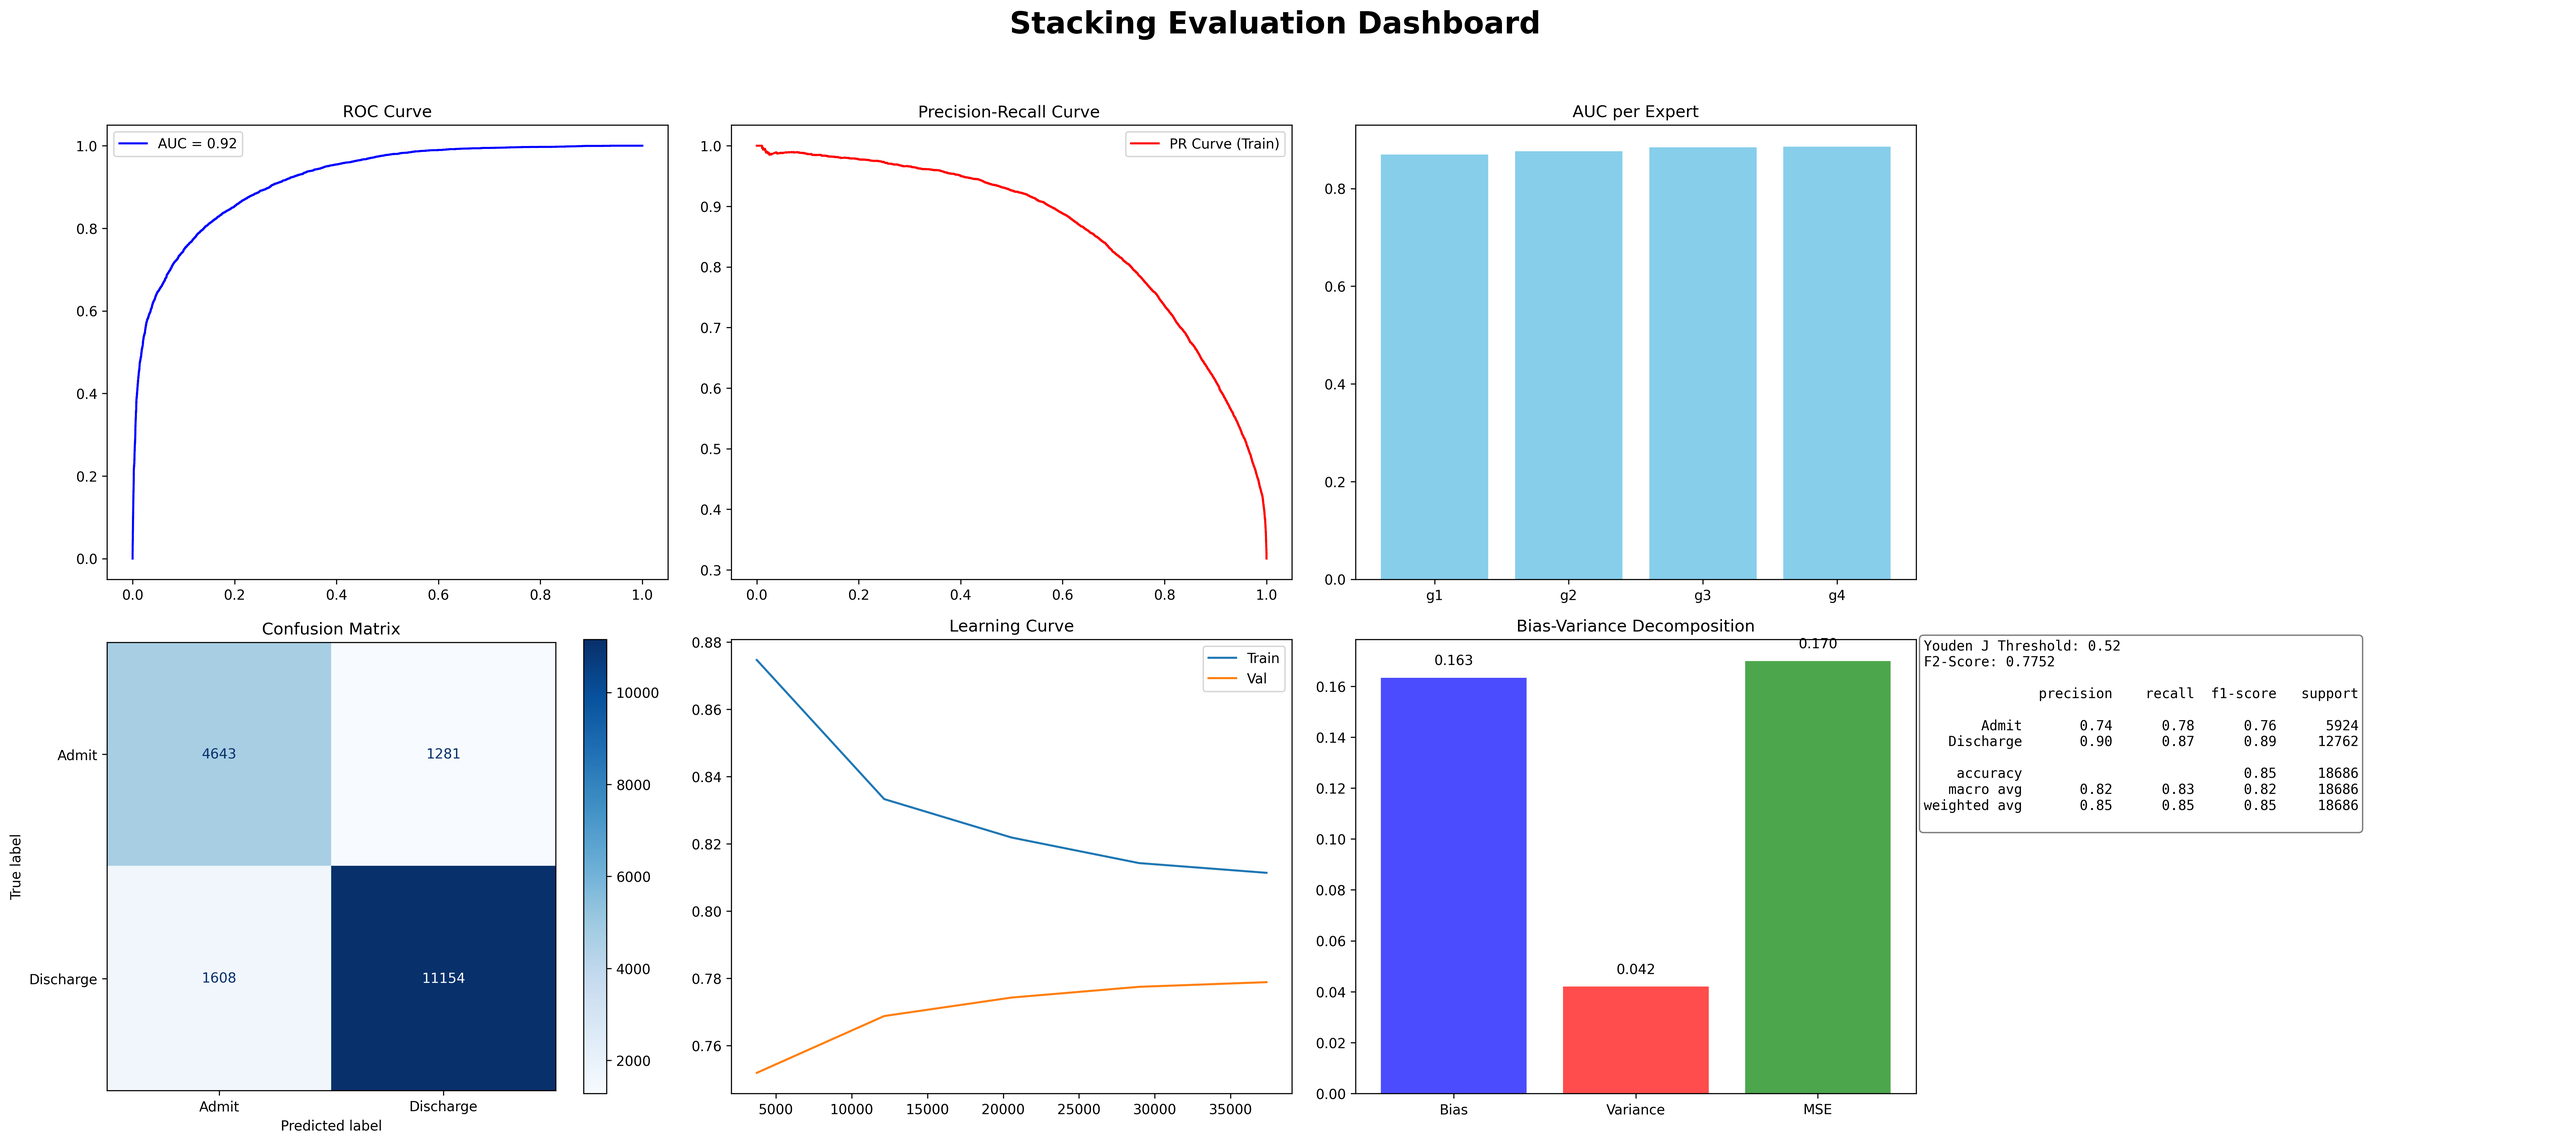
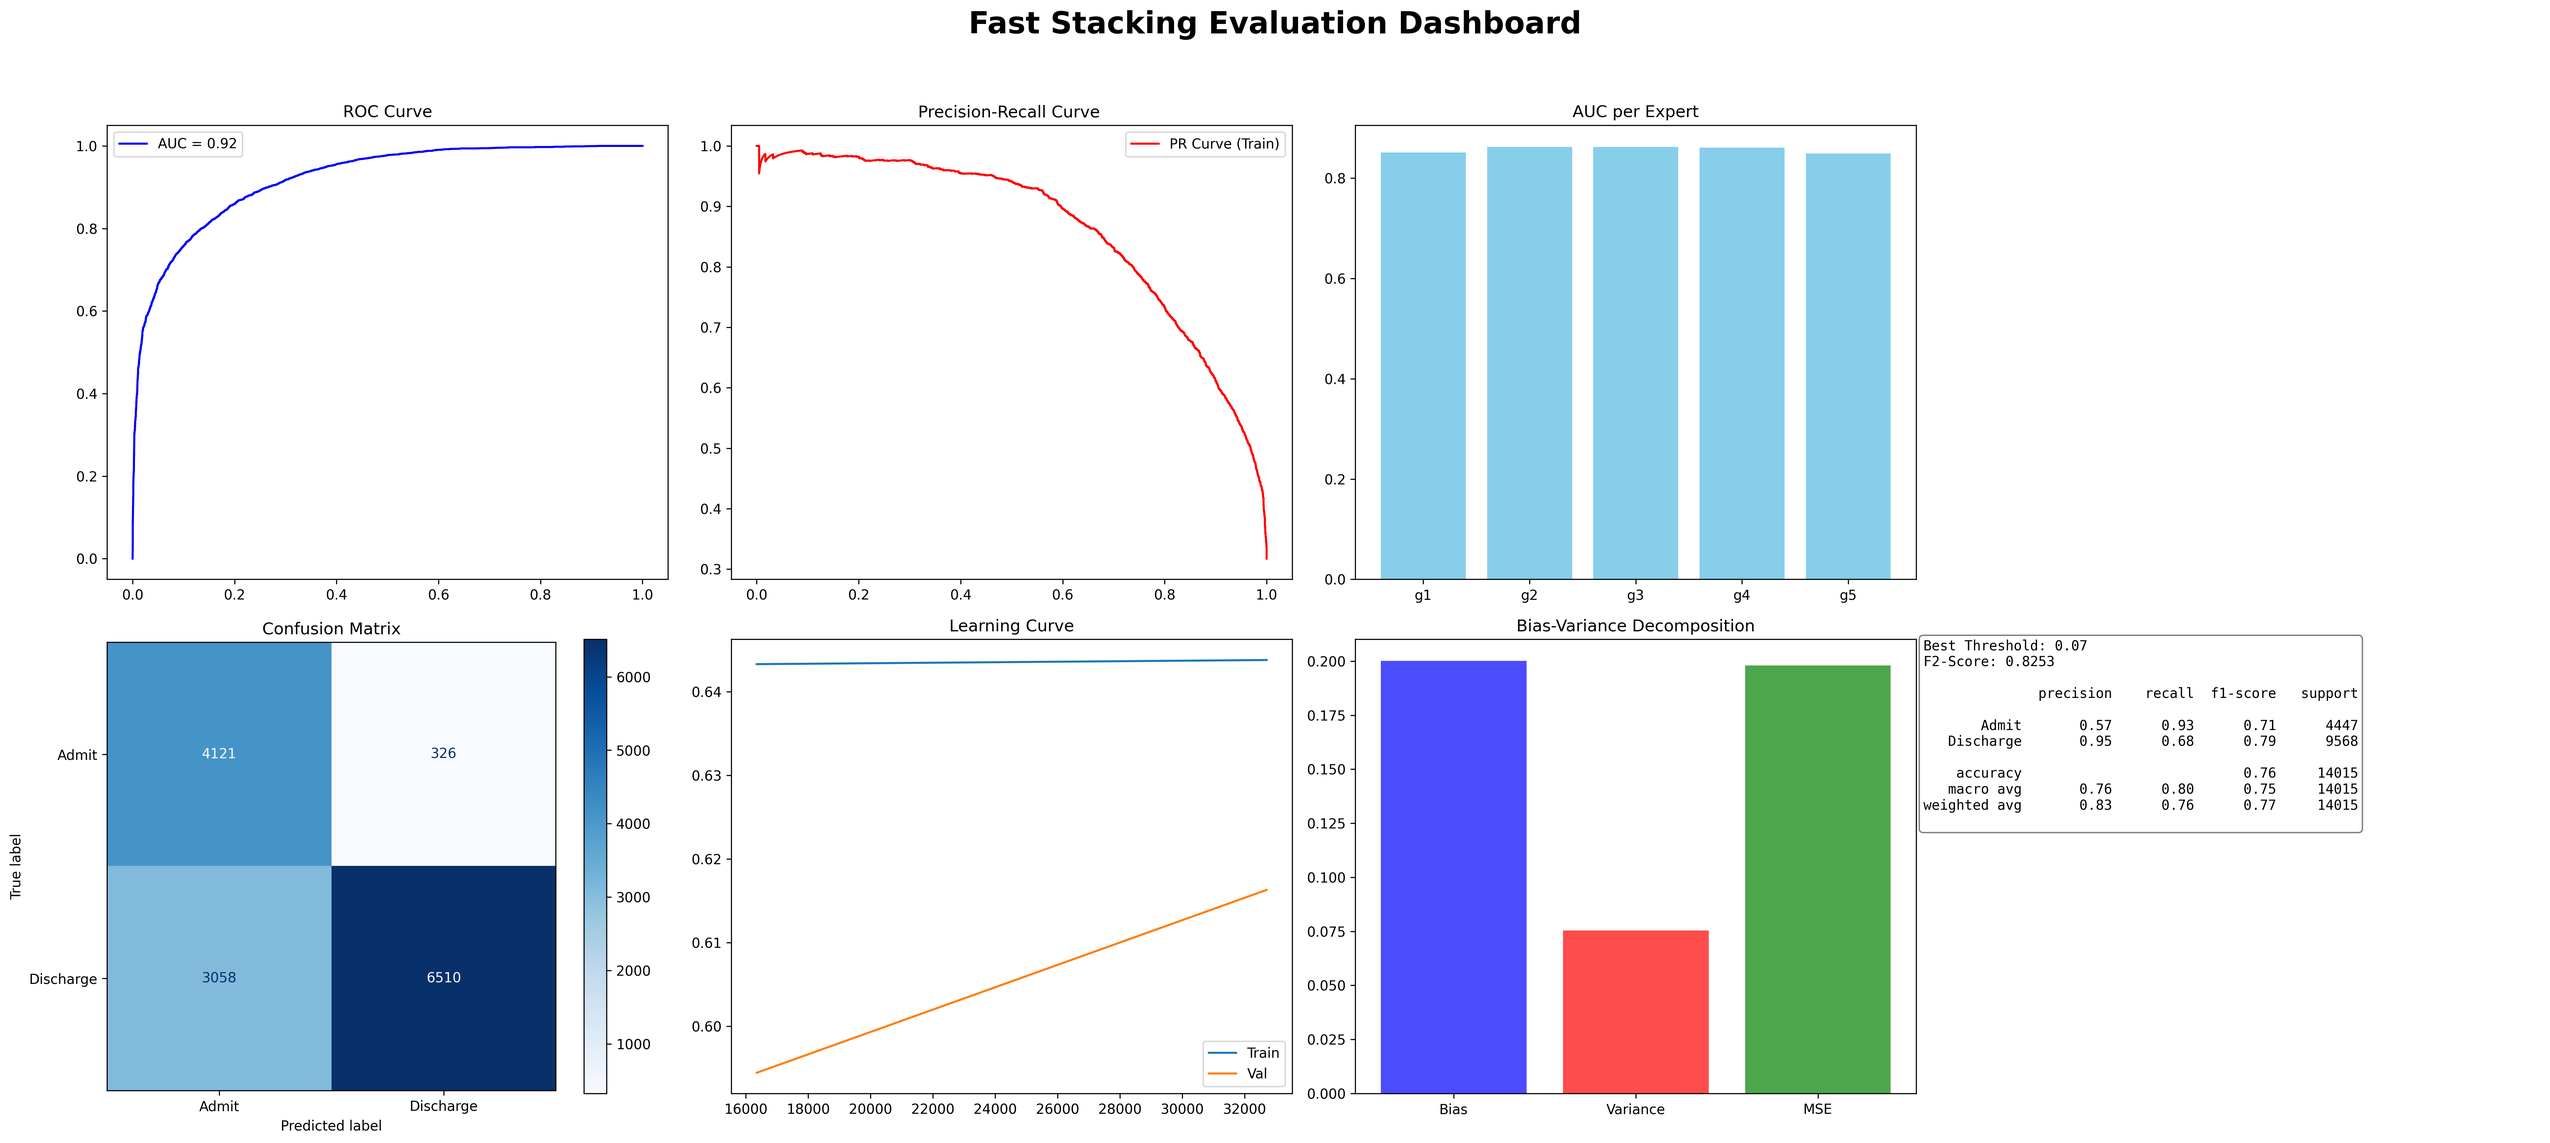
Refactor Stacking Classifier logic

diff --git a/scripts/triage_stacking.py b/scripts/triage_stacking.py
@@ -5,58 +5,66 @@ import re
 import random
 import lightgbm as lgb
 import joblib
-from sklearn.preprocessing import LabelEncoder
-from sklearn.model_selection import train_test_split, learning_curve, cross_val_predict
+import optuna
+from sklearn.preprocessing import LabelEncoder, OneHotEncoder
+from sklearn.model_selection import train_test_split, learning_curve, cross_val_predict, cross_val_score
 from sklearn.compose import ColumnTransformer
 from sklearn.pipeline import Pipeline
+from sklearn.impute import SimpleImputer
 from sklearn.linear_model import LogisticRegression
 from sklearn.ensemble import RandomForestClassifier, StackingClassifier
 from sklearn.metrics import (roc_curve, auc, precision_recall_curve, fbeta_score, 
                              classification_report, confusion_matrix, roc_auc_score, 
-                             make_scorer, ConfusionMatrixDisplay)
+                             make_scorer, ConfusionMatrixDisplay, precision_score)
 from catboost import CatBoostClassifier
+from xgboost import XGBClassifier
 from mlxtend.evaluate import bias_variance_decomp
 
 # 1. Load data and initialize target encoding
-df = pd.read_csv('data/subset.csv')
+df = pd.read_csv('data/subset.csv')  
 X = df.drop('disposition', axis=1)
 y = df['disposition']
 
 # 2. Split data with stratification
-X_train, X_test, y_train_raw, y_test_raw = train_test_split(X, y, test_size=0.2, random_state=42)
+X_train, X_temp, y_train_raw, y_temp = train_test_split(X, y, test_size=0.30, random_state=42)
+X_val_raw, X_test_raw, y_val_raw, y_test_raw = train_test_split(X_temp, y_temp, test_size=0.50, random_state=42)
 
 label_enc = LabelEncoder()
 y_train = label_enc.fit_transform(y_train_raw)
+y_val = label_enc.transform(y_val_raw)
 y_test = label_enc.transform(y_test_raw)
 
-X_train, X_test = X_train.copy(), X_test.copy()
+X_train_raw, X_test_raw = X_train.copy(), X_test_raw.copy()
 
 # 3. Handle missing values
-num_cols = X_train.select_dtypes(include=['int64', 'float64']).columns
-cat_cols = X_train.select_dtypes(include=['object', 'category']).columns
-
-train_median = X_train[num_cols].median()
-X_train[num_cols] = X_train[num_cols].fillna(train_median)
-X_test[num_cols] = X_test[num_cols].fillna(train_median)
-X_train[cat_cols] = X_train[cat_cols].fillna('Missing')
-X_test[cat_cols] = X_test[cat_cols].fillna('Missing')
-
 # 4. One-Hot Encoding and column name cleaning
-X_train_dum = pd.get_dummies(X_train)
-X_test_dum = pd.get_dummies(X_test)
-X_train_dum, X_test_dum = X_train_dum.align(X_test_dum, join='left', axis=1, fill_value=0)
+num_cols = X_train_raw.select_dtypes(include=['int64', 'float64']).columns.tolist()
+cat_cols = X_train_raw.select_dtypes(include=['object', 'category']).columns.tolist()
+
+preprocessor = ColumnTransformer(
+    transformers=[
+        ('num', SimpleImputer(strategy='median'), num_cols),
+        ('cat', Pipeline(steps=[
+            ('imputer', SimpleImputer(strategy='constant', fill_value='Missing')),
+            ('onehot', OneHotEncoder(handle_unknown='ignore', sparse_output=False))
+        ]), cat_cols)
+    ], remainder='passthrough')
+
+X_train_processed = preprocessor.fit_transform(X_train_raw)
+X_test_processed = preprocessor.transform(X_test_raw)
+
+cols = preprocessor.get_feature_names_out()
+cols = [re.sub(r'[\[\]<>,:{}\"]', '_', c) for c in cols]
+
+X_train_dum = pd.DataFrame(X_train_processed, columns=cols, index=X_train_raw.index)
+X_test_dum = pd.DataFrame(X_test_processed, columns=cols, index=X_test_raw.index)
 
 bool_cols = X_train_dum.select_dtypes(include=['uint8', 'bool']).columns
 X_train_dum[bool_cols] = X_train_dum[bool_cols].astype('int8')
 X_test_dum[bool_cols] = X_test_dum[bool_cols].astype('int8')
 
-X_train_dum.columns = X_train_dum.columns.str.replace(r'[\[\]<>,:{}\"]', '_', regex=True)
-X_test_dum.columns = X_test_dum.columns.str.replace(r'[\[\]<>,:{}\"]', '_', regex=True)
-
 # 5. Feature Selection
-X_fs, X_train_cv, y_fs, y_train_cv = train_test_split(
-    X_train_dum, y_train, test_size=0.8, random_state=42, stratify=y_train
-)
+X_fs, _, y_fs, _ = train_test_split(X_train_dum, y_train, test_size=0.8, random_state=42, stratify=y_train)
 lgb_selector = lgb.LGBMClassifier(n_estimators=100, importance_type='gain', n_jobs=-1, random_state=42)
 lgb_selector.fit(X_fs, y_fs)
 top_100_features = pd.Series(lgb_selector.feature_importances_, index=X_train_dum.columns).nlargest(100).index.tolist()
@@ -68,7 +76,7 @@ random.seed(22669234)
 top_5_anchors = top_100_features[:5]
 remaining_95 = [f for f in top_100_features if f not in top_5_anchors]
 random.shuffle(remaining_95)
-b1, b2, b3, b4 = remaining_95[0:24], remaining_95[24:48], remaining_95[48:72], remaining_95[72:95]
+b1, b2, b3, b4, b5 = remaining_95[0:19], remaining_95[19:38], remaining_95[38:57], remaining_95[57:76], remaining_95[76:95]
 
 def build_group(base, pool, target_size=55):
     needed = target_size - len(base)
@@ -76,61 +84,115 @@ def build_group(base, pool, target_size=55):
     extra = random.sample(pool_filtered, min(needed, len(pool_filtered)))
     return base + extra
 
-g1, g2, g3, g4 = [top_5_anchors + build_group(b, remaining_95) for b in [b1, b2, b3, b4]]
+g1, g2, g3, g4, g5 = [top_5_anchors + build_group(b, remaining_95) for b in [b1, b2, b3, b4, b5]]
 
 def get_indices(df, col_list):
     return [df.columns.get_loc(c) for c in col_list]
 
-idx1, idx2, idx3, idx4 = [get_indices(X_train_sel, g) for g in [g1, g2, g3, g4]]
+idx1, idx2, idx3, idx4, idx5 = [get_indices(X_train_sel, g) for g in [g1, g2, g3, g4, g5]]
 
 # 7. Model Stacking
-ratio = np.bincount(y_train)[1] / np.bincount(y_train)[0]
+class_ratio = ((y_train == 1).sum() / (y_train == 0).sum()) * 1.2
+
+X_proxy, _, y_proxy, _ = train_test_split(X_train_sel.values, y_train, test_size=0.8, random_state=42, stratify=y_train)
+
+def objective(trial):
+    lgb_lr   = trial.suggest_float('lgb_lr', 0.01, 0.1, log=True)
+    cat_lr   = trial.suggest_float('cat_lr', 0.01, 0.1, log=True)
+    xgb_lr   = trial.suggest_float('xgb_lr', 0.01, 0.1, log=True)
+    meta_lr  = trial.suggest_float('meta_lr', 0.01, 0.1, log=True)
+
+    bases = [
+        ('sub1_lgbm', Pipeline([('sel', ColumnTransformer([('k', 'passthrough', idx1)], remainder='drop')),
+                                 ('clf', lgb.LGBMClassifier(n_estimators=150, learning_rate=lgb_lr, scale_pos_weight=class_ratio, random_state=42, n_jobs=1))])),
+        ('sub2_rf',   Pipeline([('sel', ColumnTransformer([('k', 'passthrough', idx2)], remainder='drop')),
+                                 ('clf', RandomForestClassifier(n_estimators=100, max_depth=6, bootstrap=False, class_weight='balanced', random_state=42, n_jobs=1))])),
+        ('sub3_cat',  Pipeline([('sel', ColumnTransformer([('k', 'passthrough', idx3)], remainder='drop')),
+                                 ('clf', CatBoostClassifier(iterations=200, learning_rate=cat_lr, depth=5, auto_class_weights='Balanced', verbose=0, thread_count=1))])),
+        ('sub4_cat_alt', Pipeline([('sel', ColumnTransformer([('k', 'passthrough', idx4)], remainder='drop')),
+                                    ('clf', CatBoostClassifier(iterations=200, learning_rate=cat_lr, depth=5, auto_class_weights='Balanced', verbose=0, thread_count=1))])),
+        ('sub5_xgb',  Pipeline([('sel', ColumnTransformer([('k', 'passthrough', idx5)], remainder='drop')),
+                                 ('clf', XGBClassifier(n_estimators=150, learning_rate=xgb_lr, scale_pos_weight=class_ratio, eval_metric='logloss', random_state=42, n_jobs=1, verbosity=0))]))
+    ]
+    meta = lgb.LGBMClassifier(n_estimators=100, learning_rate=meta_lr, scale_pos_weight=class_ratio, random_state=42, n_jobs=-1, verbosity=-1)
+    stack = StackingClassifier(estimators=bases, final_estimator=meta, cv=2, stack_method='predict_proba', n_jobs=-1)
+
+    X_tr_opt, X_val_opt, y_tr_opt, y_val_opt = train_test_split(X_proxy, y_proxy, test_size=0.2, stratify=y_proxy, random_state=42)
+    stack.fit(X_tr_opt, y_tr_opt)
+    y_prob_opt = stack.predict_proba(X_val_opt)[:, 0]
+    prec_o, rec_o, thresh_o = precision_recall_curve(y_val_opt, y_prob_opt, pos_label=0)
+    f2_o = (5 * prec_o[:-1] * rec_o[:-1]) / (4 * prec_o[:-1] + rec_o[:-1] + 1e-9)
+    t_o = thresh_o[np.argmax(f2_o)]
+    y_pred_o = np.where(y_prob_opt > t_o, 0, 1)
+    return fbeta_score(y_val_opt, y_pred_o, beta=2, pos_label=0)
+
+optuna.logging.set_verbosity(optuna.logging.WARNING)
+study = optuna.create_study(direction='maximize', sampler=optuna.samplers.TPESampler(seed=42))
+study.optimize(objective, n_trials=10) 
+
+bp = study.best_params
+
 base_learners = [
-    ('sub1_lgbm', Pipeline([('sel', ColumnTransformer([('k', 'passthrough', idx1)], remainder='drop')), 
-                             ('clf', lgb.LGBMClassifier(n_estimators=100, scale_pos_weight=ratio, random_state=42, n_jobs=-1))])),
-    ('sub2_rf', Pipeline([('sel', ColumnTransformer([('k', 'passthrough', idx2)], remainder='drop')), 
-                            ('clf', RandomForestClassifier(n_estimators=100, class_weight='balanced', max_depth=5, min_samples_leaf=50, random_state=42, n_jobs=-1))])),
-    ('sub3_cat', Pipeline([('sel', ColumnTransformer([('k', 'passthrough', idx3)], remainder='drop')), 
-                             ('clf', CatBoostClassifier(iterations=200, verbose=0, auto_class_weights='Balanced', depth=4, thread_count=-1))])),
-    ('sub4_cat_alt', Pipeline([('sel', ColumnTransformer([('k', 'passthrough', idx4)], remainder='drop')), 
-                                 ('clf', CatBoostClassifier(iterations=200, verbose=0, depth=5, thread_count=-1))]))
+    ('sub1_lgbm',    Pipeline([('sel', ColumnTransformer([('k', 'passthrough', idx1)], remainder='drop')),
+                                ('clf', lgb.LGBMClassifier(n_estimators=200, learning_rate=bp['lgb_lr'], scale_pos_weight=class_ratio, random_state=42, n_jobs=-1))])),
+    ('sub2_rf',      Pipeline([('sel', ColumnTransformer([('k', 'passthrough', idx2)], remainder='drop')),
+                                ('clf', RandomForestClassifier(n_estimators=150, max_depth=7, bootstrap=False, class_weight='balanced', random_state=42, n_jobs=-1))])),
+    ('sub3_cat',     Pipeline([('sel', ColumnTransformer([('k', 'passthrough', idx3)], remainder='drop')),
+                                ('clf', CatBoostClassifier(iterations=250, learning_rate=bp['cat_lr'], depth=6, auto_class_weights='Balanced', verbose=0, thread_count=-1))])),
+    ('sub4_cat_alt', Pipeline([('sel', ColumnTransformer([('k', 'passthrough', idx4)], remainder='drop')),
+                                ('clf', CatBoostClassifier(iterations=250, learning_rate=bp['cat_lr'], depth=6, auto_class_weights='Balanced', verbose=0, thread_count=-1))])),
+    ('sub5_xgb',     Pipeline([('sel', ColumnTransformer([('k', 'passthrough', idx5)], remainder='drop')),
+                                ('clf', XGBClassifier(n_estimators=200, learning_rate=bp['xgb_lr'], scale_pos_weight=class_ratio, eval_metric='logloss', random_state=42, n_jobs=-1, verbosity=0))]))
 ]
-meta_model = LogisticRegression(max_iter=1000, random_state=42, C=0.01, n_jobs=-1,class_weight='balanced')
-stacking_model = StackingClassifier(estimators=base_learners, final_estimator=meta_model, cv=3, stack_method='predict_proba', n_jobs=-1)
+meta_model = lgb.LGBMClassifier(n_estimators=200, learning_rate=bp['meta_lr'], scale_pos_weight=class_ratio, random_state=42, n_jobs=-1, verbosity=-1)
+stacking_model = StackingClassifier(estimators=base_learners, final_estimator=meta_model, cv=2, stack_method='predict_proba', n_jobs=-1)
 
 # Training
-print("Training Stacking model...")
 stacking_model.fit(X_train_sel.values, y_train)
 
-# 8. Evaluation & Threshold
-y_prob_train_oof = cross_val_predict(stacking_model, X_train_sel.values, y_train, cv=3, method='predict_proba', n_jobs=-1)[:, 0]
-prec_tr, rec_tr, thresh_tr = precision_recall_curve(y_train, y_prob_train_oof, pos_label=0)
-distances = rec_tr - (1 - prec_tr)
-best_t = thresh_tr[np.argmax(distances)]
+# 9. Evaluation & Threshold
+# ── THRESHOLD SEARCH ΜΕ RECALL CONSTRAINT ΣΤΟ VALIDATION SET ────────────────
+# Βρίσκουμε το threshold που μεγιστοποιεί το F2 με constraint recall >= 0.50
+# Το search γίνεται στο validation set (A+B) ώστε το test set να μην αγγίζεται.
 
+X_val_processed = preprocessor.transform(X_val_raw)
+cols_val = preprocessor.get_feature_names_out()
+cols_val = [re.sub(r'[\[\]<>,:{}\"]', '_', c) for c in cols_val]
+X_val_dum = pd.DataFrame(X_val_processed, columns=cols_val, index=X_val_raw.index)
+bool_cols_val = X_val_dum.select_dtypes(include=['uint8', 'bool']).columns
+X_val_dum[bool_cols_val] = X_val_dum[bool_cols_val].astype('int8')
+X_val_sel = X_val_dum[top_100_features].copy()
+
+y_prob_val = stacking_model.predict_proba(X_val_sel.values)[:, 0]
+
+best_t, best_f2 = 0.5, 0
+for t in np.arange(0.05, 0.65, 0.01):
+    preds = np.where(y_prob_val > t, 0, 1)
+    score = fbeta_score(y_val, preds, beta=2, pos_label=0)
+    if score > best_f2:
+        best_f2, best_t = score, t
 
 y_prob_admit = stacking_model.predict_proba(X_test_sel.values)[:, 0]
+prec_tr, rec_tr, _ = precision_recall_curve(y_test, y_prob_admit, pos_label=0)
 y_pred = np.where(y_prob_admit > best_t, 0, 1)
+# ─────────────────────────────────────────────────────────────────────────────
 
 # Bias-Variance
-mse, bias, var = bias_variance_decomp(stacking_model, X_train_sel.values[:1500], y_train[:1500], X_test_sel.values, y_test, loss='0-1_loss', num_rounds=5, random_seed=42)
+mse, bias, var = bias_variance_decomp(stacking_model, X_train_sel.values[:500], y_train[:500], X_test_sel.values, y_test, loss='0-1_loss', num_rounds=2, random_seed=42)
 
-# 9. DASHBOARD 
+# 10. DASHBOARD 
 fig, axes = plt.subplots(2, 4, figsize=(26, 12))
-fig.suptitle('Stacking Evaluation Dashboard', fontsize=22, fontweight='bold', y=0.98)
+fig.suptitle('Fast Stacking Evaluation Dashboard', fontsize=22, fontweight='bold', y=0.98)
 
 fpr, tpr, _ = roc_curve(y_test, y_prob_admit, pos_label=0)
 axes[0, 0].plot(fpr, tpr, color='blue', label=f'AUC = {auc(fpr, tpr):.2f}')
 axes[0, 0].set_title('ROC Curve'); axes[0, 0].legend()
 
 axes[0, 1].plot(rec_tr, prec_tr, color='red', label='PR Curve (Train)')
-idx_e = np.argmin(distances)
 axes[0, 1].set_title('Precision-Recall Curve '); axes[0, 1].legend()
 
-expert_aucs = []
-for name, est in stacking_model.named_estimators_.items():
-    expert_aucs.append(roc_auc_score(y_test, est.predict_proba(X_test_sel.values)[:, 1]))
-axes[0, 2].bar(['g1', 'g2', 'g3', 'g4'], expert_aucs, color='skyblue')
+expert_aucs = [roc_auc_score(y_test, est.predict_proba(X_test_sel.values)[:, 1]) for est in stacking_model.estimators_]
+axes[0, 2].bar(['g1', 'g2', 'g3', 'g4', 'g5'], expert_aucs, color='skyblue')
 axes[0, 2].set_title('AUC per Expert')
 
 axes[0, 3].axis('off')
@@ -139,26 +201,25 @@ ConfusionMatrixDisplay(confusion_matrix(y_test, y_pred), display_labels=label_en
 axes[1, 0].set_title('Confusion Matrix')
 
 f2_scorer = make_scorer(fbeta_score, beta=2, pos_label=0)
-ts, tr_s, vl_s = learning_curve(stacking_model, X_train_sel.values, y_train, train_sizes=np.linspace(0.1, 1.0, 5), cv=2, scoring=f2_scorer)
+ts, tr_s, vl_s = learning_curve(stacking_model, X_train_sel.values, y_train, train_sizes=[0.5, 1.0], cv=2, scoring=f2_scorer)
 axes[1, 1].plot(ts, np.mean(tr_s, axis=1), label='Train'); axes[1, 1].plot(ts, np.mean(vl_s, axis=1), label='Val')
 axes[1, 1].set_title('Learning Curve'); axes[1, 1].legend()
 
 axes[1, 2].bar(['Bias', 'Variance', 'MSE'], [bias, var, mse], color=['blue', 'red', 'green'], alpha=0.7)
 axes[1, 2].set_title('Bias-Variance Decomposition')
-for i, v in enumerate([bias, var, mse]): axes[1, 2].text(i, v + 0.005, f'{v:.3f}', ha='center')
 
 axes[1, 3].axis('off')
 report = classification_report(y_test, y_pred, target_names=label_enc.classes_)
-metrics_text = f"Youden J Threshold: {best_t:.2f}\nF2-Score: {fbeta_score(y_test, y_pred, beta=2, pos_label=0):.4f}\n\n{report}"
+metrics_text = f"Best Threshold: {best_t:.2f}\nF2-Score: {fbeta_score(y_test, y_pred, beta=2, pos_label=0):.4f}\n\n{report}"
 axes[1, 3].text(-0.1, 1.0, metrics_text, fontsize=10, family='monospace', va='top', bbox=dict(boxstyle='round', facecolor='white', alpha=0.5))
 
 model_artifacts = {
     'model': stacking_model,
     'label_encoder': label_enc,
-    'train_median': train_median,
+    'preprocessor': preprocessor,
     'top_100_features': top_100_features,
     'best_threshold': best_t
-}
+} 
 
 joblib.dump(model_artifacts, 'models/stacking_model_artifacts.pkl')
 
